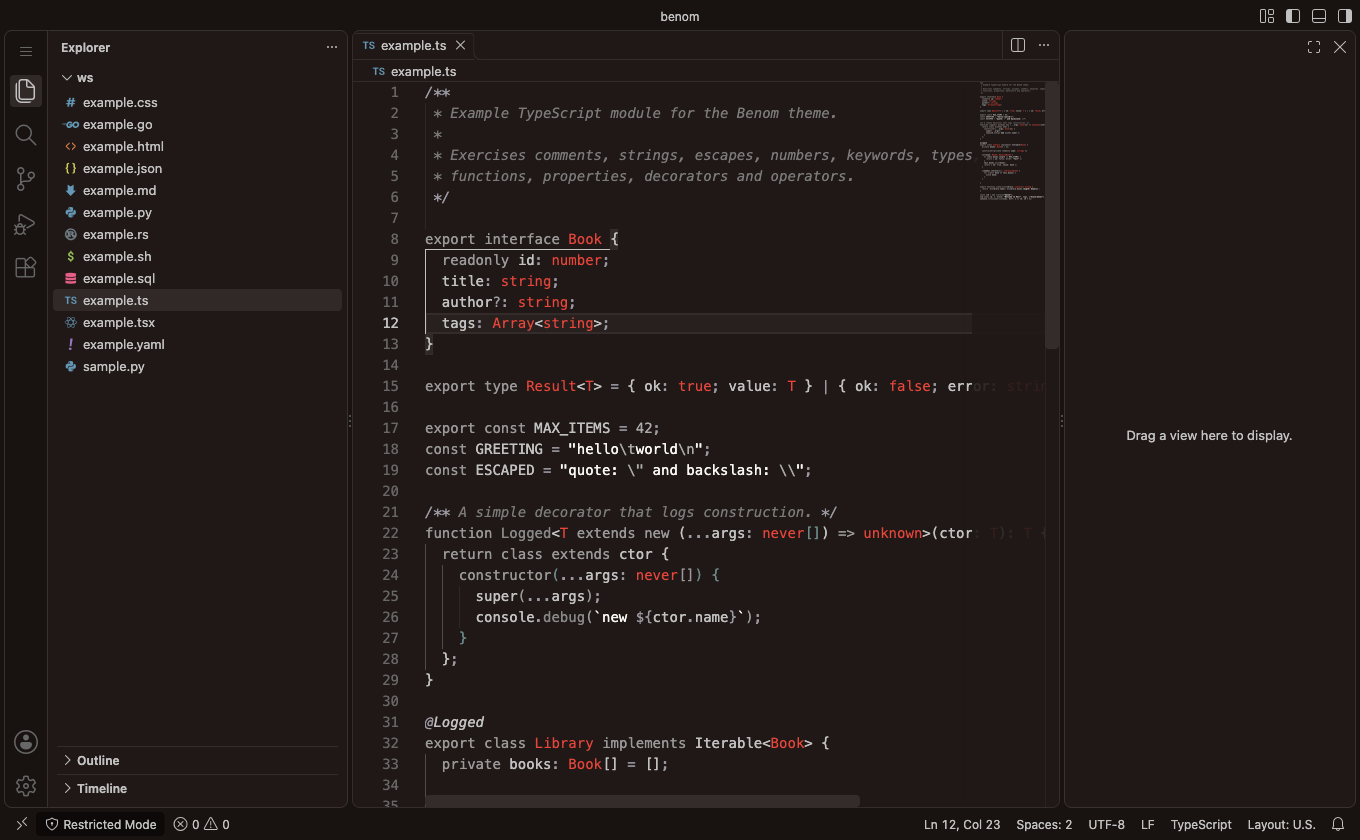
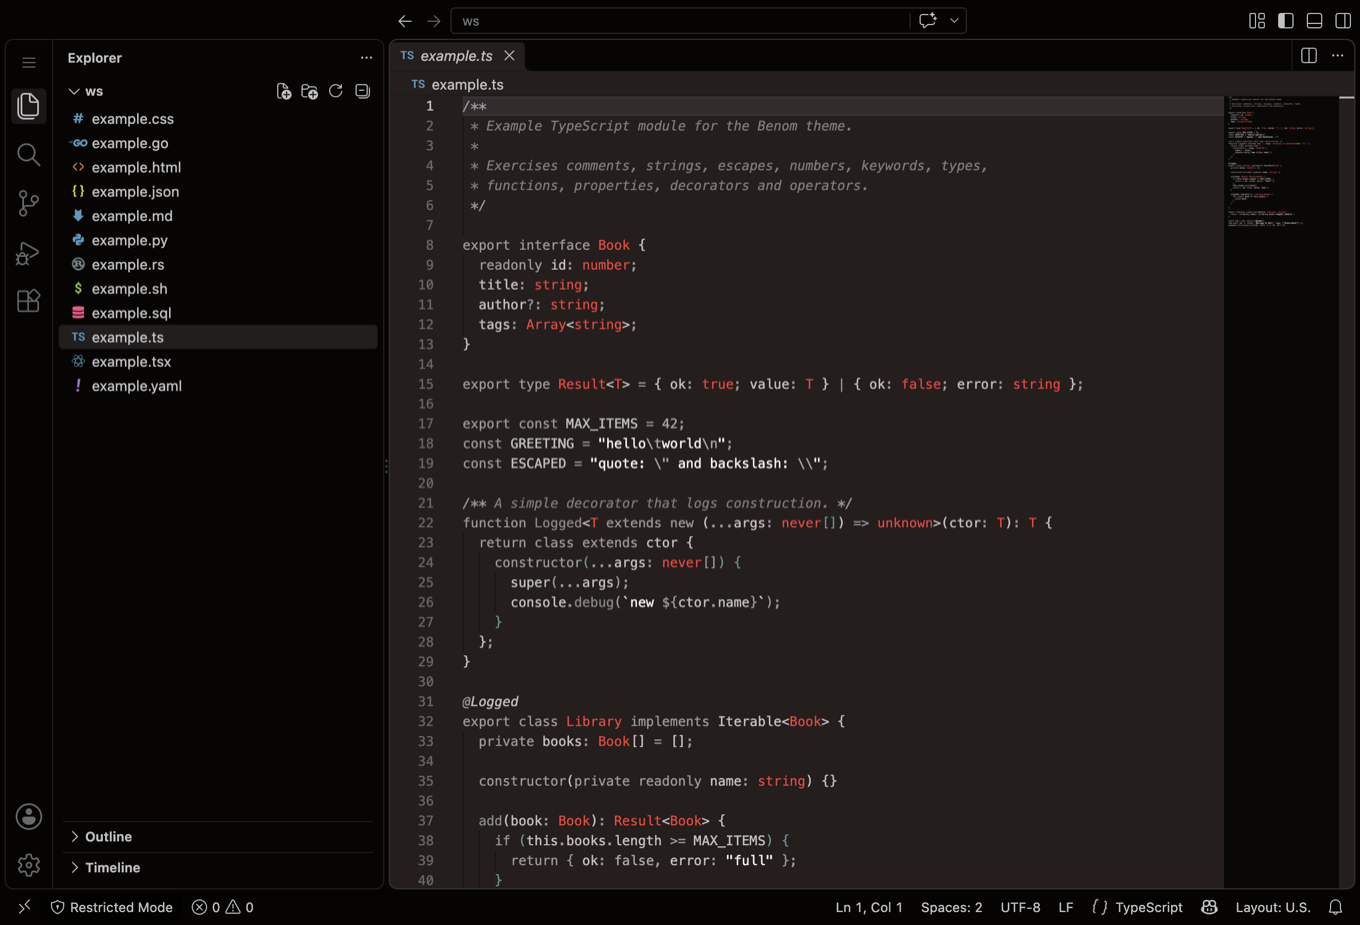
docs: fix variant backgrounds, finalize 0.1.0 changelog, regenerate screenshots

diff --git a/CHANGELOG.md b/CHANGELOG.md
@@ -5,24 +5,20 @@ All notable changes to this project will be documented in this file.
 The format is based on [Keep a Changelog](https://keepachangelog.com/en/1.1.0/),
 and this project adheres to [Semantic Versioning](https://semver.org/spec/v2.0.0.html).
 
-## [Unreleased]
+## [0.1.0] - 2026-10-13
 
 ### Added
 
+- Initial release: the Benom and Benom Alt themes.
+- Editor backgrounds `#191919` (Benom) and `#251e1d` (Benom Alt); chrome is darker.
+- TextMate `tokenColors`, `semanticTokenColors`, and workbench `colors`.
+- Contrast-targeted color lifting with a generated `DECISIONS.md` section.
+- Zero-dependency build (`scripts/build.mjs`) and check (`scripts/check.mjs`).
+- Quality gates: JSON/hex validity, contrast, known workbench ids, determinism.
+- Diff, gutter, and minimap tints that keep editor text readable.
 - Packaging via `@vscode/vsce` and `ovsx` with a committed `package-lock.json`.
 - `.vscodeignore` yielding the exact `.vsix` file list.
 - Generated 128x128 `icon.png` (zero-dependency `node:zlib` encoder).
 - Realistic sample files in `samples/` for syntax coverage.
 - Marketplace-ready `README.md`, this `CHANGELOG.md`, and `docs/PUBLISHING.md`.
 - Packaging gate test (`test/package.test.mjs`).
-
-## [0.1.0] - 2026-01-01
-
-### Added
-
-- Initial release: the Benom and Benom Alt themes.
-- Both variants with `editor.background` `#000000` and `#211816`.
-- TextMate `tokenColors`, `semanticTokenColors`, and workbench `colors`.
-- Contrast-targeted color lifting with a generated `DECISIONS.md` section.
-- Zero-dependency build (`scripts/build.mjs`) and check (`scripts/check.mjs`).
-- Quality gates: JSON/hex validity, contrast, known workbench ids, determinism.

diff --git a/README.md b/README.md
@@ -14,8 +14,8 @@ stays readable through long sessions.
 
 | Variant | Editor background | Notes |
 | --- | --- | --- |
-| **Benom** | `#000000` (pure black) | The default; areas are separated with quiet borders. |
-| **Benom Alt** | `#211816` (warm dark brown) | The source's `alt_bg`; chrome is a step darker than the editor. |
+| **Benom** | `#191919` (neutral charcoal) | The default; sidebar and chrome are near-black, the editor a step lighter. |
+| **Benom Alt** | `#251e1d` (warm dark brown) | Derived from the source's `alt_bg` (`#211816`); chrome is a step darker than the editor. |
 
 Both variants enable semantic highlighting (`editor.semanticHighlighting.enabled`)
 so functions, types, properties and decorators are colored by the language
@@ -41,7 +41,7 @@ your theme looks plain, set `editor.semanticHighlighting.enabled` to `true`.
 
 ## Screenshots
 
-**Benom** (pure black):
+**Benom** (neutral charcoal):
 
 ![Benom](docs/images/benom.png)
 
